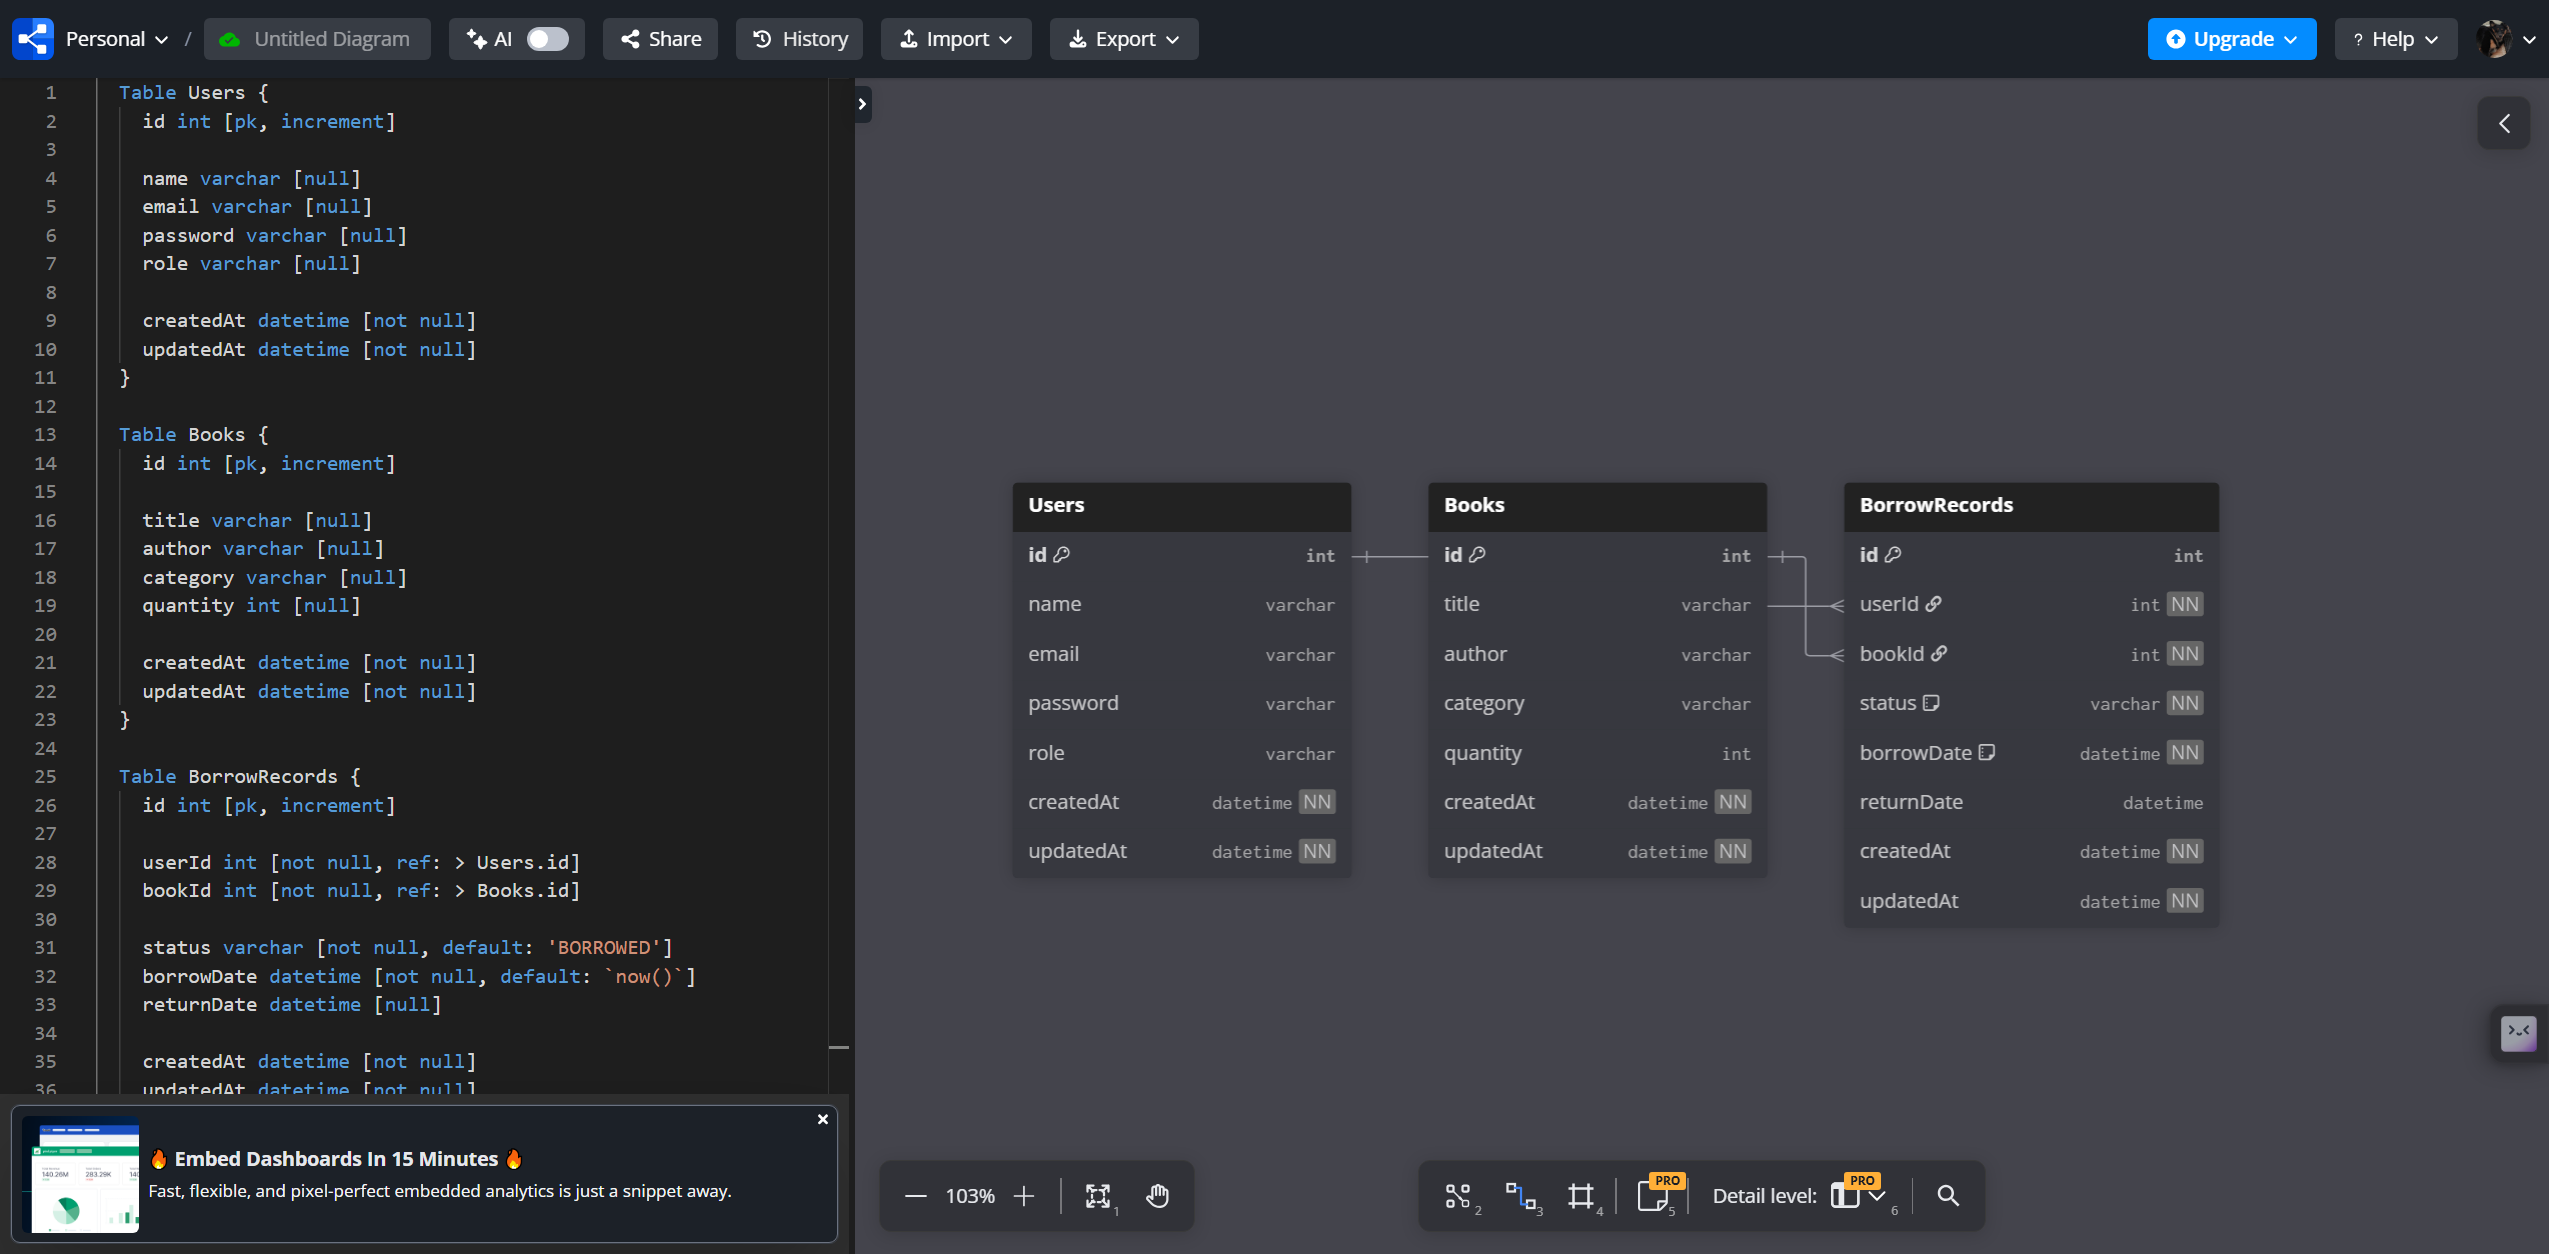
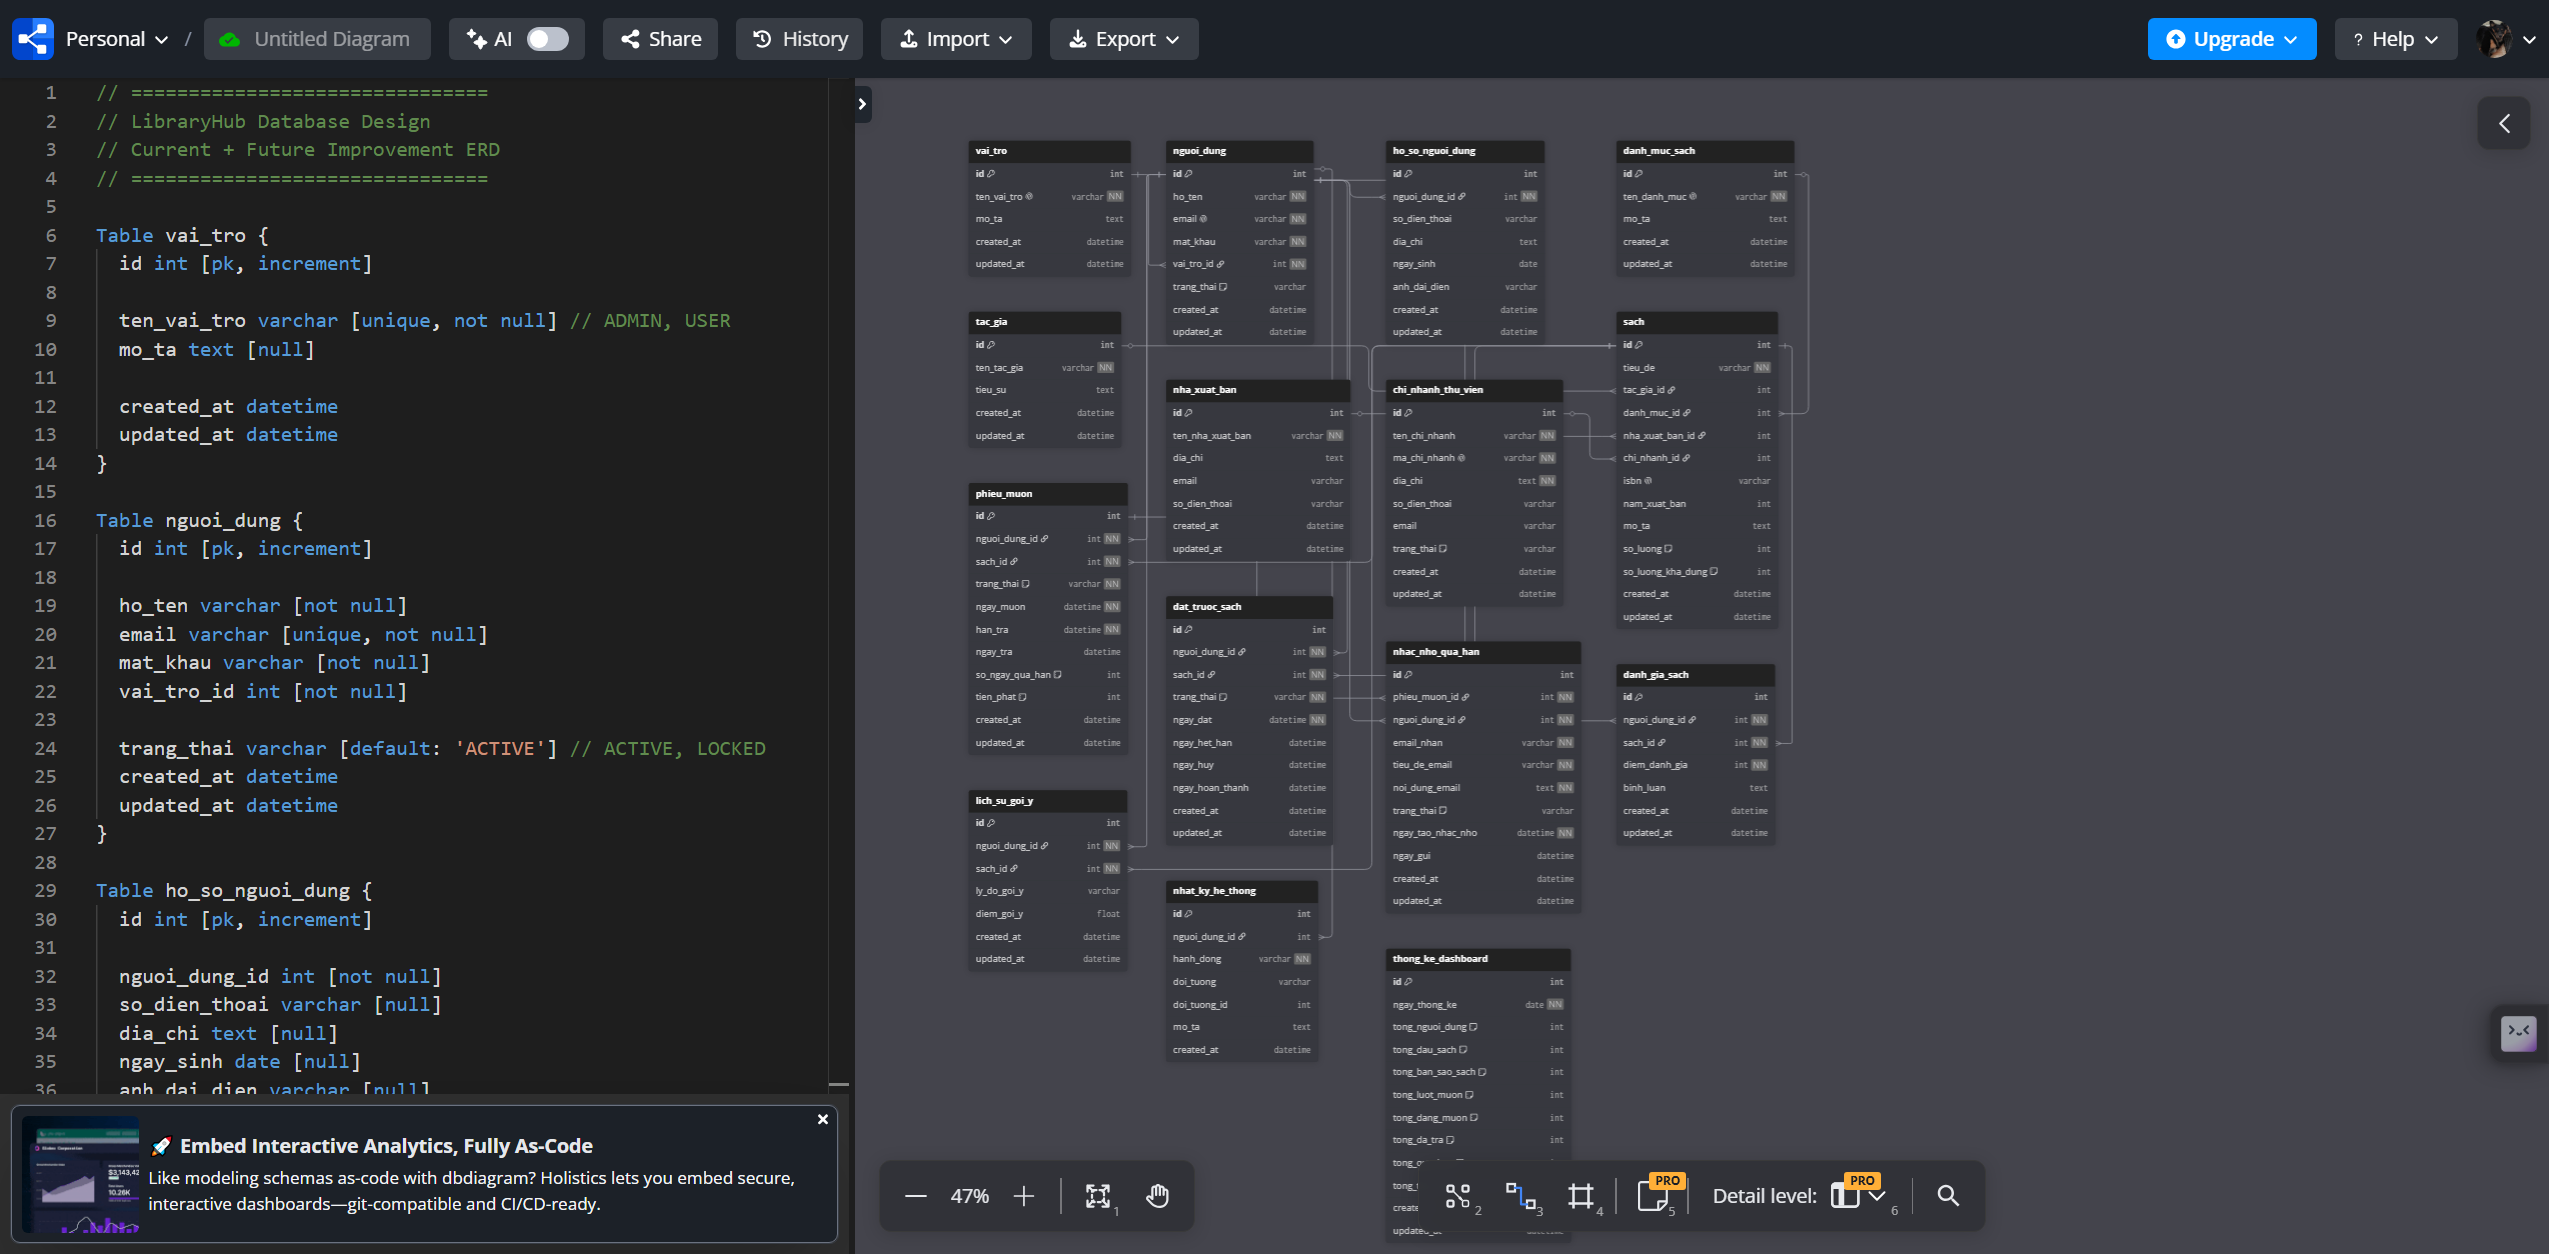
feat: add advanced borrow workflow and admin dashboard

diff --git a/Frontend/src/components/Admin/AdminOverdueReminders.vue b/Frontend/src/components/Admin/AdminOverdueReminders.vue
@@ -2,7 +2,7 @@
   <div class="admin-reminders-page">
     <div class="d-flex justify-content-between align-items-center mb-4 flex-wrap gap-3">
       <div>
-        <h2 class="mb-1">Mock Overdue Reminders</h2>
+        <h2 class="mb-1">Overdue Reminders</h2>
         <p class="text-muted mb-0">
           Generate simulated reminder messages for overdue borrow records.
         </p>
@@ -50,7 +50,7 @@
                   <th>Due Date</th>
                   <th>Overdue Days</th>
                   <th>Fine</th>
-                  <th>Mock Message</th>
+                  <th>Message</th>
                 </tr>
               </thead>
 

diff --git a/README.md b/README.md
@@ -40,7 +40,7 @@ The project targets **Level 2** and applies a **CMMI Level 2-oriented process im
 - Admin book management
 - Admin dashboard statistics
 - Informational overdue fine calculation
-- Mock overdue reminder generation without SMTP
+- Overdue reminder generation without SMTP
 - PostgreSQL database with Sequelize ORM
 - Python FastAPI recommendation service
 - Docker Compose multi-service environment
@@ -55,7 +55,7 @@ The project targets **Level 2** and applies a **CMMI Level 2-oriented process im
 
 - **Admin Dashboard**: admins can view total users, books, book copies, borrow records, active borrows, returned borrows, overdue records, and estimated informational fines.
 - **Overdue Fine Calculation**: borrow records include a nullable due date and an informational fine amount. Users can select an expected return date when borrowing. The due date must be between tomorrow and 14 days from the borrow date, and late returns calculate `overdueDays * 5000` from the selected due date.
-- **Mock Overdue Reminder**: admins can generate simulated overdue reminder messages for overdue borrow records. Demo overdue records can be created with the seed data. No real email, SMTP, payment, fine payment, or external sending is used.
+- **Overdue Reminder**: admins can generate simulated overdue reminder messages for overdue borrow records. Demo overdue records can be created with the seed data. No real email, SMTP, payment, fine payment, or external sending is used.
 
 ---
 
